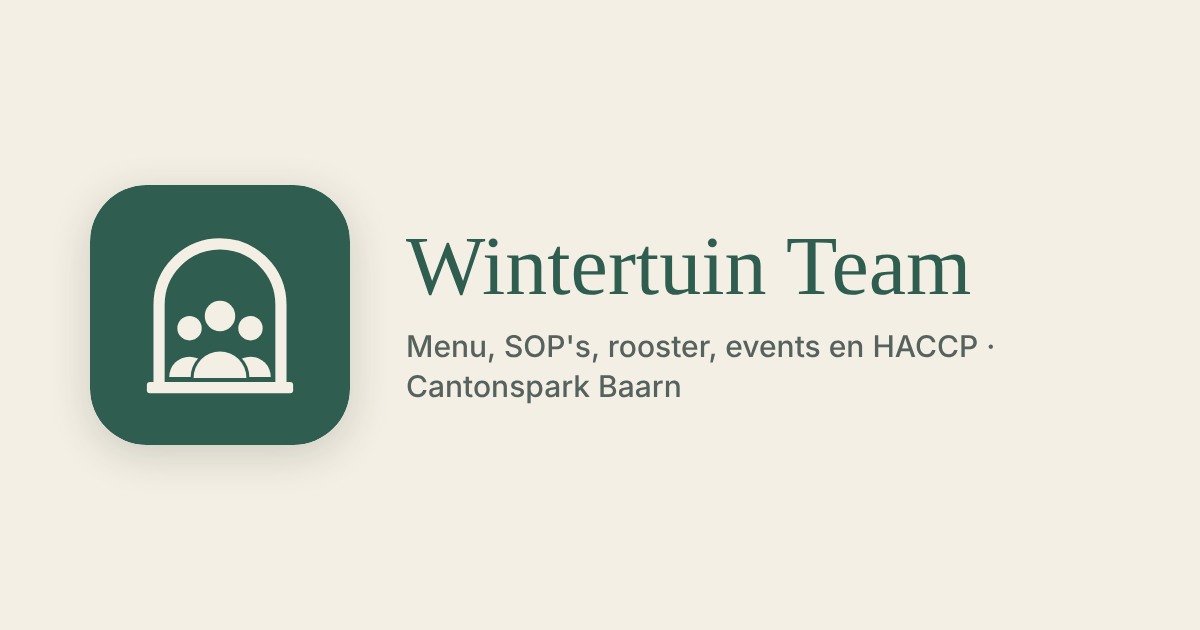
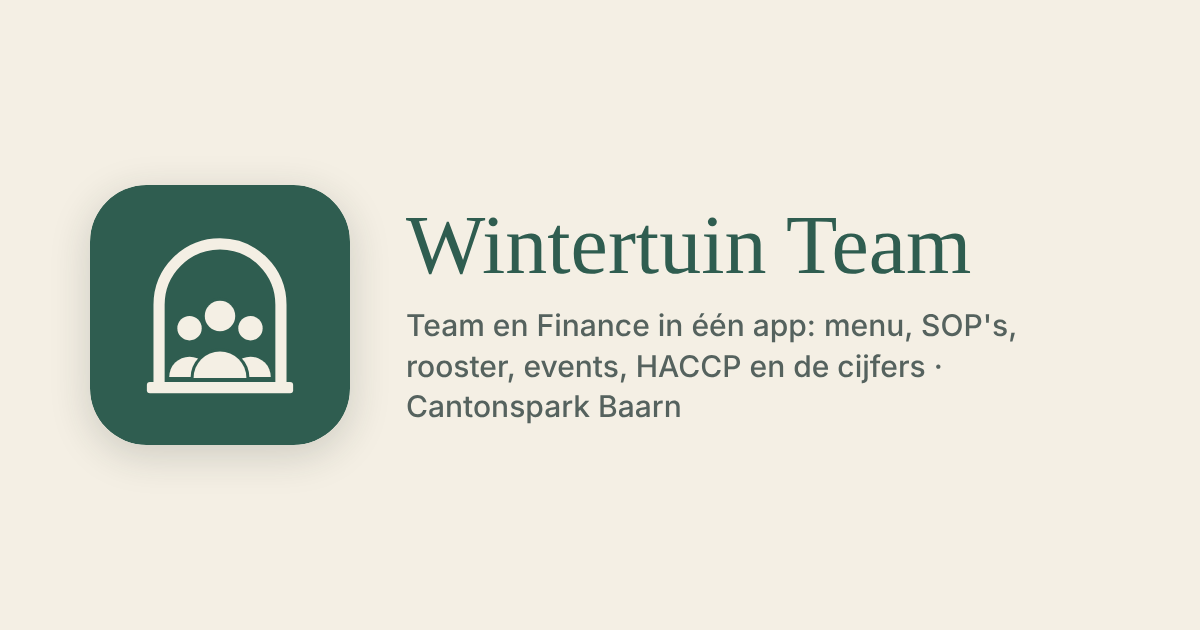
Link preview of the Team app mentions Finance too
Claude-Session: https://claude.ai/code/session_01D7jxXBmyUdyZTLV2ctBv7E

Changed region(s): [[0.3392, 0.3317, 0.8633, 0.6635]]

diff --git a/index.html b/index.html
@@ -5,12 +5,12 @@
   <meta name="viewport" content="width=device-width, initial-scale=1, viewport-fit=cover">
   <meta name="theme-color" content="#2F5D50">
   <title>Wintertuin Team</title>
-  <meta name="description" content="De Team-app van de Wintertuin in Baarn: menu, SOP's, rooster, events en HACCP.">
+  <meta name="description" content="De Team-app en Finance van de Wintertuin in Baarn: menu, SOP's, rooster, events, HACCP en de cijfers. Eén login voor allebei.">
   <!-- link preview in WhatsApp, iMessage, Slack: title, text and picture -->
   <meta property="og:type" content="website">
   <meta property="og:site_name" content="Wintertuin">
-  <meta property="og:title" content="Wintertuin Team">
-  <meta property="og:description" content="De Team-app van de Wintertuin in Baarn: menu, SOP's, rooster, events en HACCP.">
+  <meta property="og:title" content="Wintertuin Team &amp; Finance">
+  <meta property="og:description" content="De Team-app en Finance van de Wintertuin in Baarn: menu, SOP's, rooster, events, HACCP en de cijfers. Eén login voor allebei.">
   <meta property="og:url" content="https://joost1305.github.io/wintertuin-staff-app/">
   <meta property="og:image" content="https://joost1305.github.io/wintertuin-staff-app/img/og-image.png">
   <meta property="og:image:width" content="1200">
